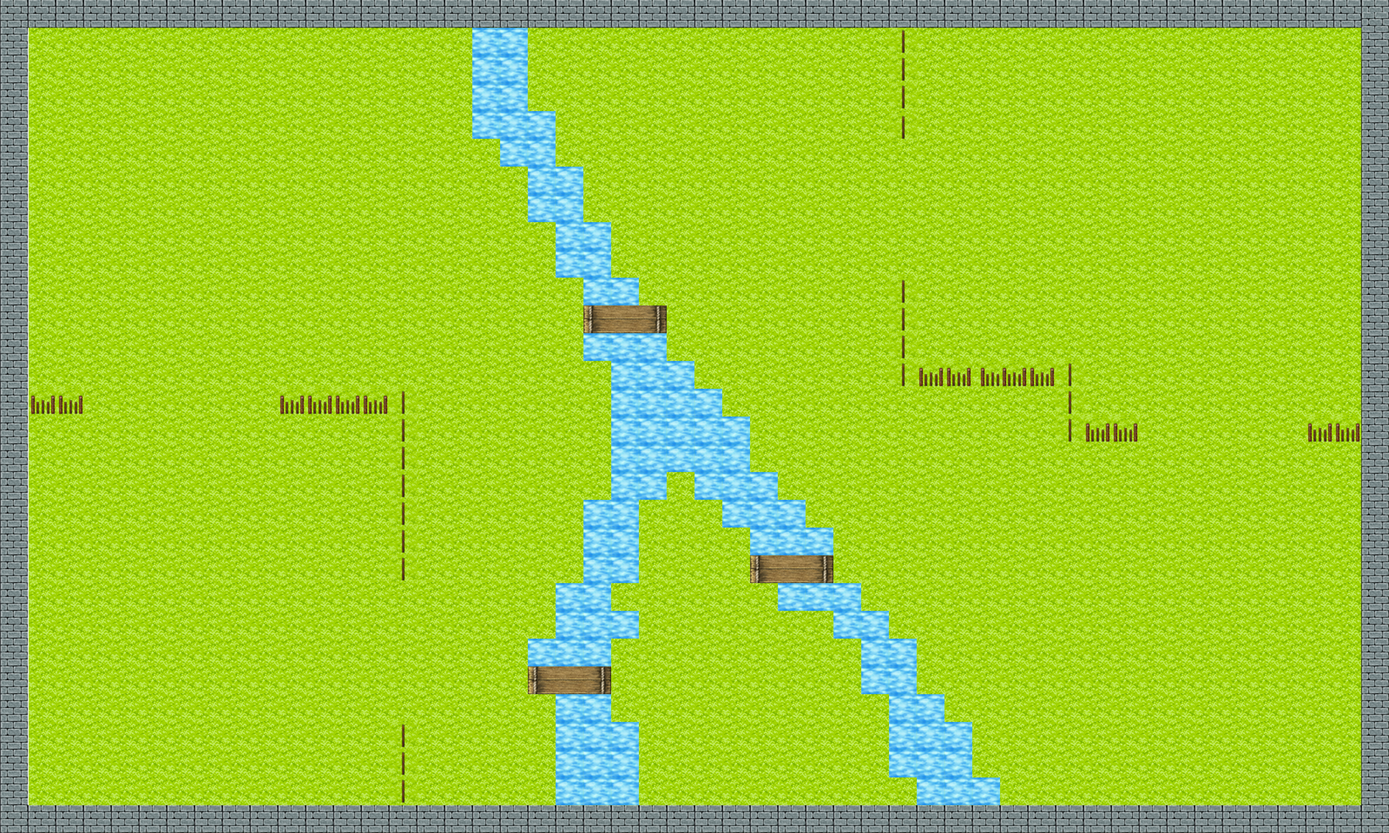
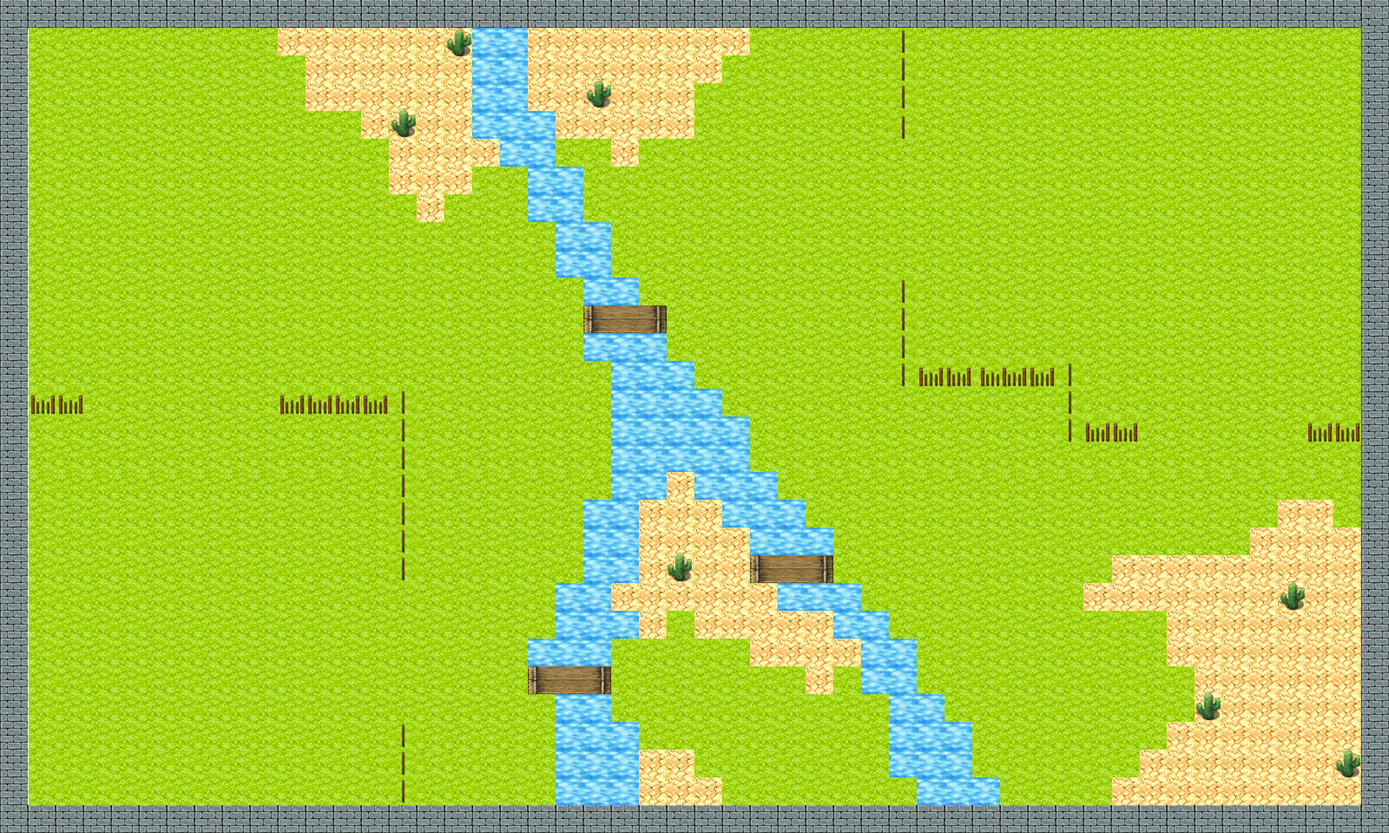
release v2.5 更新第二个地图、人物随机出现
1. 更新第二个地图并录入数据
2. 使人物随机出现

Changed region(s): [[0.0, 0.5625, 1.0, 0.9688], [0.1875, 0.0312, 0.375, 0.2812], [0.375, 0.0312, 0.5625, 0.2188]]

diff --git a/res/config.h b/res/config.h
@@ -90,41 +90,41 @@ const int originMap[2][31][51]=
     //0
     {0,0,0,0,0,0,0,0,0,0,0,0,0,0,0,0,0,0,0,0,0,0,0,0,0,0,0,0,0,0,0,0,0,0,0,0,0,0,0,0,0,0,0,0,0,0,0,0,0,0,0},
     //1-5
-    {0,0,0,0,0,0,0,0,0,0,0,0,0,0,0,0,0,0,0,0,0,0,0,0,0,0,0,0,0,0,0,0,0,0,0,0,0,0,0,0,0,0,0,0,0,0,0,0,0,0,0},
-    {0,0,1,1,1,1,1,1,1,1,1,1,1,1,1,1,1,1,1,1,1,1,1,1,1,1,1,1,1,1,1,1,1,0,1,1,1,1,1,1,1,1,1,1,1,1,1,1,1,1,0},
-    {0,0,1,1,1,1,1,1,1,1,1,1,1,1,1,1,1,1,1,1,1,1,1,1,1,1,1,1,1,1,1,1,1,0,1,1,1,1,1,1,1,1,1,1,1,1,1,1,1,1,0},
-    {0,0,1,1,1,1,1,1,1,1,1,1,1,1,1,1,1,1,1,1,1,1,1,1,1,1,1,1,1,1,1,1,1,0,1,1,1,1,1,1,1,1,1,1,1,1,1,1,1,1,0},
-    {0,0,1,1,1,1,1,1,1,1,1,1,1,1,1,1,1,1,1,1,1,1,1,1,1,1,1,1,1,1,1,1,1,0,1,1,1,1,1,1,1,1,1,1,1,1,1,1,1,1,0},
+    {0, 0,0,0,0,0,0,0,0,0,0, 0,0,0,0,0,0,0,0,0,0, 0,0,0,0,0,0,0,0,0,0, 0,0,0,0,0,0,0,0,0,0, 0,0,0,0,0,0,0,0,0,0},
+    {0, 0,1,1,1,1,1,1,1,1,1, 2,2,2,2,2,2,0,3,3,2, 2,2,2,2,2,2,2,1,1,1, 1,1,0,1,1,1,1,1,1,1, 1,1,1,1,1,1,1,1,1,0},
+    {0, 0,1,1,1,1,1,1,1,1,1, 1,2,2,2,2,2,2,3,3,2, 2,2,2,2,2,2,1,1,1,1, 1,1,0,1,1,1,1,1,1,1, 1,1,1,1,1,1,1,1,1,0},
+    {0, 0,1,1,1,1,1,1,1,1,1, 1,2,2,2,2,2,2,3,3,2, 2,0,2,2,2,1,1,1,1,1, 1,1,0,1,1,1,1,1,1,1, 1,1,1,1,1,1,1,1,1,0},
+    {0, 0,1,1,1,1,1,1,1,1,1, 1,1,1,2,0,2,2,3,3,3, 2,2,2,2,2,1,1,1,1,1, 1,1,0,1,1,1,1,1,1,1, 1,1,1,1,1,1,1,1,1,0},
     //6-10
-    {0,0,1,1,1,1,1,1,1,1,1,1,1,1,1,1,1,1,1,1,1,1,1,1,1,1,1,1,1,1,1,1,1,1,1,1,1,1,1,1,1,1,1,1,1,1,1,1,1,1,0},
-    {0,0,1,1,1,1,1,1,1,1,1,1,1,1,1,1,1,1,1,1,1,1,1,1,1,1,1,1,1,1,1,1,1,1,1,1,1,1,1,1,1,1,1,1,1,1,1,1,1,1,0},
-    {0,0,1,1,1,1,1,1,1,1,1,1,1,1,1,1,1,1,1,1,1,1,1,1,1,1,1,1,1,1,1,1,1,1,1,1,1,1,1,1,1,1,1,1,1,1,1,1,1,1,0},
-    {0,0,1,1,1,1,1,1,1,1,1,1,1,1,1,1,1,1,1,1,1,1,1,1,1,1,1,1,1,1,1,1,1,1,1,1,1,1,1,1,1,1,1,1,1,1,1,1,1,1,0},
-    {0,0,1,1,1,1,1,1,1,1,1,1,1,1,1,1,1,1,1,1,1,1,1,1,1,1,1,1,1,1,1,1,1,1,1,1,1,1,1,1,1,1,1,1,1,1,1,1,1,1,0},
+    {0, 0,1,1,1,1,1,1,1,1,1, 1,1,1,1,2,2,2,2,3,3, 1,1,2,1,1,1,1,1,1,1, 1,1,1,1,1,1,1,1,1,1, 1,1,1,1,1,1,1,1,1,0},
+    {0, 0,1,1,1,1,1,1,1,1,1, 1,1,1,1,2,2,2,1,1,3, 3,1,1,1,1,1,1,1,1,1, 1,1,1,1,1,1,1,1,1,1, 1,1,1,1,1,1,1,1,1,0},
+    {0, 0,1,1,1,1,1,1,1,1,1, 1,1,1,1,1,2,1,1,1,3, 3,1,1,1,1,1,1,1,1,1, 1,1,1,1,1,1,1,1,1,1, 1,1,1,1,1,1,1,1,1,0},
+    {0, 0,1,1,1,1,1,1,1,1,1, 1,1,1,1,1,1,1,1,1,1, 3,3,1,1,1,1,1,1,1,1, 1,1,1,1,1,1,1,1,1,1, 1,1,1,1,1,1,1,1,1,0},
+    {0, 0,1,1,1,1,1,1,1,1,1, 1,1,1,1,1,1,1,1,1,1, 3,3,1,1,1,1,1,1,1,1, 1,1,1,1,1,1,1,1,1,1, 1,1,1,1,1,1,1,1,1,0},
     //11-15
-    {0,0,1,1,1,1,1,1,1,1,1,1,1,1,1,1,1,1,1,1,1,1,1,1,1,1,1,1,1,1,1,1,1,0,1,1,1,1,1,1,1,1,1,1,1,1,1,1,1,1,0},
-    {0,0,1,1,1,1,1,1,1,1,1,1,1,1,1,1,1,1,1,1,1,1,1,1,1,1,1,1,1,1,1,1,1,0,1,1,1,1,1,1,1,1,1,1,1,1,1,1,1,1,0},
-    {0,0,1,1,1,1,1,1,1,1,1,1,1,1,1,1,1,1,1,1,1,1,1,1,1,1,1,1,1,1,1,1,1,0,1,1,1,1,1,1,1,1,1,1,1,1,1,1,1,1,0},
-    {0,0,1,1,1,1,1,1,1,1,1,1,1,1,1,1,1,1,1,1,1,1,1,1,1,1,1,1,1,1,1,1,1,0,0,0,0,0,0,0,1,1,1,1,1,1,1,1,1,1,0},
-    {0,0,0,0,1,1,1,1,1,1,1,0,0,0,0,0,1,1,1,1,1,1,1,1,1,1,1,1,1,1,1,1,1,1,1,1,1,1,1,0,1,1,1,1,1,1,1,1,1,1,0},
+    {0, 0,1,1,1,1,1,1,1,1,1, 1,1,1,1,1,1,1,1,1,1, 1,3,3,1,1,1,1,1,1,1, 1,1,0,1,1,1,1,1,1,1, 1,1,1,1,1,1,1,1,1,0},
+    {0, 0,1,1,1,1,1,1,1,1,1, 1,1,1,1,1,1,1,1,1,1, 1,1,1,1,1,1,1,1,1,1, 1,1,0,1,1,1,1,1,1,1, 1,1,1,1,1,1,1,1,1,0},
+    {0, 0,1,1,1,1,1,1,1,1,1, 1,1,1,1,1,1,1,1,1,1, 1,3,3,3,1,1,1,1,1,1, 1,1,0,1,1,1,1,1,1,1, 1,1,1,1,1,1,1,1,1,0},
+    {0, 0,1,1,1,1,1,1,1,1,1, 1,1,1,1,1,1,1,1,1,1, 1,1,3,3,3,1,1,1,1,1, 1,1,0,0,0,0,0,0,0,1, 1,1,1,1,1,1,1,1,1,0},
+    {0, 0,0,0,1,1,1,1,1,1,1, 0,0,0,0,0,1,1,1,1,1, 1,1,3,3,3,3,1,1,1,1, 1,1,1,1,1,1,1,1,0,1, 1,1,1,1,1,1,1,1,1,0},
     //16-20
-    {0,0,1,1,1,1,1,1,1,1,1,1,1,1,1,0,1,1,1,1,1,1,1,1,1,1,1,1,1,1,1,1,1,1,1,1,1,1,1,0,0,0,1,1,1,1,1,1,0,0,0},
-    {0,0,1,1,1,1,1,1,1,1,1,1,1,1,1,0,1,1,1,1,1,1,1,1,1,1,1,1,1,1,1,1,1,1,1,1,1,1,1,1,1,1,1,1,1,1,1,1,1,1,0},
-    {0,0,1,1,1,1,1,1,1,1,1,1,1,1,1,0,1,1,1,1,1,1,1,1,1,1,1,1,1,1,1,1,1,1,1,1,1,1,1,1,1,1,1,1,1,1,1,1,1,1,0},
-    {0,0,1,1,1,1,1,1,1,1,1,1,1,1,1,0,1,1,1,1,1,1,1,1,1,1,1,1,1,1,1,1,1,1,1,1,1,1,1,1,1,1,1,1,1,1,1,1,1,1,0},
-    {0,0,1,1,1,1,1,1,1,1,1,1,1,1,1,0,1,1,1,1,1,1,1,1,1,1,1,1,1,1,1,1,1,1,1,1,1,1,1,1,1,1,1,1,1,1,1,1,1,1,0},
+    {0, 0,1,1,1,1,1,1,1,1,1, 1,1,1,1,0,1,1,1,1,1, 1,1,3,3,3,3,3,1,1,1, 1,1,1,1,1,1,1,1,0,0, 0,1,1,1,1,1,1,0,0,0},
+    {0, 0,1,1,1,1,1,1,1,1,1, 1,1,1,1,0,1,1,1,1,1, 1,1,3,3,3,3,3,1,1,1, 1,1,1,1,1,1,1,1,1,1, 1,1,1,1,1,1,1,1,1,0},
+    {0, 0,1,1,1,1,1,1,1,1,1, 1,1,1,1,0,1,1,1,1,1, 1,1,3,3,2,3,3,3,1,1, 1,1,1,1,1,1,1,1,1,1, 1,1,1,1,1,1,1,1,1,0},
+    {0, 0,1,1,1,1,1,1,1,1,1, 1,1,1,1,0,1,1,1,1,1, 1,3,3,2,2,2,3,3,3,1, 1,1,1,1,1,1,1,1,1,1, 1,1,1,1,1,1,2,2,1,0},
+    {0, 0,1,1,1,1,1,1,1,1,1, 1,1,1,1,0,1,1,1,1,1, 1,3,3,2,2,2,2,3,3,3, 1,1,1,1,1,1,1,1,1,1, 1,1,1,1,1,2,2,2,2,0},
     //21-25
-    {0,0,1,1,1,1,1,1,1,1,1,1,1,1,1,0,1,1,1,1,1,1,1,1,1,1,1,1,1,1,1,1,1,1,1,1,1,1,1,1,1,1,1,1,1,1,1,1,1,1,0},
-    {0,0,1,1,1,1,1,1,1,1,1,1,1,1,1,1,1,1,1,1,1,1,1,1,1,1,1,1,1,1,1,1,1,1,1,1,1,1,1,1,1,1,1,1,1,1,1,1,1,1,0},
-    {0,0,1,1,1,1,1,1,1,1,1,1,1,1,1,1,1,1,1,1,1,1,1,1,1,1,1,1,1,1,1,1,1,1,1,1,1,1,1,1,1,1,1,1,1,1,1,1,1,1,0},
-    {0,0,1,1,1,1,1,1,1,1,1,1,1,1,1,1,1,1,1,1,1,1,1,1,1,1,1,1,1,1,1,1,1,1,1,1,1,1,1,1,1,1,1,1,1,1,1,1,1,1,0},
-    {0,0,1,1,1,1,1,1,1,1,1,1,1,1,1,1,1,1,1,1,1,1,1,1,1,1,1,1,1,1,1,1,1,1,1,1,1,1,1,1,1,1,1,1,1,1,1,1,1,1,0},
+    {0, 0,1,1,1,1,1,1,1,1,1, 1,1,1,1,0,1,1,1,1,1, 1,3,3,2,0,2,2,1,1,1, 1,1,1,1,1,1,1,1,1,1, 2,2,2,2,2,2,2,2,2,0},
+    {0, 0,1,1,1,1,1,1,1,1,1, 1,1,1,1,1,1,1,1,1,1, 3,3,2,2,2,2,2,2,3,3, 3,1,1,1,1,1,1,1,1,2, 2,2,2,2,2,2,0,2,2,0},
+    {0, 0,1,1,1,1,1,1,1,1,1, 1,1,1,1,1,1,1,1,1,1, 3,3,3,2,1,2,2,2,2,2, 3,3,1,1,1,1,1,1,1,1, 1,1,2,2,2,2,2,2,2,0},
+    {0, 0,1,1,1,1,1,1,1,1,1, 1,1,1,1,1,1,1,1,1,3, 3,3,1,1,1,1,1,2,2,2, 2,3,3,1,1,1,1,1,1,1, 1,1,2,2,2,2,2,2,2,0},
+    {0, 0,1,1,1,1,1,1,1,1,1, 1,1,1,1,1,1,1,1,1,1, 1,1,1,1,1,1,1,1,1,2, 1,3,3,1,1,1,1,1,1,1, 1,1,1,2,2,2,2,2,2,0},
     //26-30
-    {0,0,1,1,1,1,1,1,1,1,1,1,1,1,1,1,1,1,1,1,1,1,1,1,1,1,1,1,1,1,1,1,1,1,1,1,1,1,1,1,1,1,1,1,1,1,1,1,1,1,0},
-    {0,0,1,1,1,1,1,1,1,1,1,1,1,1,1,0,1,1,1,1,1,1,1,1,1,1,1,1,1,1,1,1,1,1,1,1,1,1,1,1,1,1,1,1,1,1,1,1,1,1,0},
-    {0,0,1,1,1,1,1,1,1,1,1,1,1,1,1,0,1,1,1,1,1,1,1,1,1,1,1,1,1,1,1,1,1,1,1,1,1,1,1,1,1,1,1,1,1,1,1,1,1,1,0},
-    {0,0,1,1,1,1,1,1,1,1,1,1,1,1,1,0,1,1,1,1,1,1,1,1,1,1,1,1,1,1,1,1,1,1,1,1,1,1,1,1,1,1,1,1,1,1,1,1,1,1,0},
-    {0,0,0,0,0,0,0,0,0,0,0,0,0,0,0,0,0,0,0,0,0,0,0,0,0,0,0,0,0,0,0,0,0,0,0,0,0,0,0,0,0,0,0,0,0,0,0,0,0,0,0}
+    {0, 0,1,1,1,1,1,1,1,1,1, 1,1,1,1,1,1,1,1,1,1, 3,3,1,1,1,1,1,1,1,1, 1,1,3,3,1,1,1,1,1,1, 1,1,1,0,2,2,2,2,2,0},
+    {0, 0,1,1,1,1,1,1,1,1,1, 1,1,1,1,0,1,1,1,1,1, 3,3,3,1,1,1,1,1,1,1, 1,1,3,3,3,1,1,1,1,1, 1,1,2,2,2,2,2,2,2,0},
+    {0, 0,1,1,1,1,1,1,1,1,1, 1,1,1,1,0,1,1,1,1,1, 3,3,3,2,2,1,1,1,1,1, 1,1,3,3,3,1,1,1,1,1, 1,2,2,2,2,2,2,2,0,0},
+    {0, 0,1,1,1,1,1,1,1,1,1, 1,1,1,1,0,1,1,1,1,1, 3,3,3,2,2,2,1,1,1,1, 1,1,1,3,3,3,1,1,1,1, 2,2,2,2,2,2,2,2,2,0},
+    {0, 0,0,0,0,0,0,0,0,0,0, 0,0,0,0,0,0,0,0,0,0, 0,0,0,0,0,0,0,0,0,0, 0,0,0,0,0,0,0,0,0,0, 0,0,0,0,0,0,0,0,0,0}
     }
 };
 const int originx[2] = {20,30}, originy[2] = {30,50};
@@ -149,10 +149,5 @@ inline int ManhattanDist(int x1, int y1, int x2, int y2)
 enum BELONGING{MINE, YOURS};
 enum DERECTION{UP, DOWN, LEFT, RIGHT};
 enum GAMEMODE{ONEPLAYER = 1, TWOPLAYERS = 0};
-
-#define endtag (qDebug()<<"end")
-#define begintag (qDebug()<<"begin")
-
-
 
 #endif // CONFIG_H

diff --git a/res/gamescene.cpp b/res/gamescene.cpp
@@ -26,6 +26,7 @@ GameScene::GameScene(int chapter, int gameMode, QWidget *parent)
     connect(playingMenu, &PlayingMenu::restartGame, [=](){bgm->stop();emit restart();});
 
     setButton();
+
     hint = new HintLabel(this);
     hint->hide();
 
@@ -37,13 +38,7 @@ GameScene::GameScene(int chapter, int gameMode, QWidget *parent)
     attrackSound = new QSound(":/music/attrack.wav", this);
     clickSound = new QSound(":/music/click.wav", this);
 
-    characterNum = 6;
-    character[0] = new Warrior(10, 10, m_x, m_y,YOURS, this);
-    character[1] = new Swordsman(3, 5, m_x, m_y,YOURS, this);
-    character[2] = new Ninja(15, 14, m_x, m_y,YOURS, this);
-    character[3] = new Warrior(13, 13, m_x, m_y, MINE, this);
-    character[4] = new Swordsman(10, 19, m_x, m_y, MINE, this);
-    character[5] = new Ninja(19, 15, m_x, m_y, MINE, this);
+    createCharacter();
 
     aliveNum[MINE] = aliveNum[YOURS] = 0;
     for(int i=0;i<characterNum;i++)
@@ -138,6 +133,37 @@ GameScene::GameScene(int chapter, int gameMode, QWidget *parent)
     });
     connect(resultMenu, &ResultMenu::startVideo, this, &GameScene::showVideo);
 }
+void GameScene::createCharacter()
+{
+    characterNum = 8;
+    int tempx[8], tempy[8];
+    for(int i = 0; i < 8; i++)
+    {
+        while(true)
+        {
+            bool success = true;
+            tempx[i] = rand() % m_map.maxCellx + 1;
+            tempy[i] = rand() % m_map.maxCelly + 1;
+            if(GameMap::binMap[tempx[i]][tempy[i]] == 0)
+                success = false;
+            for(int j = 0; j < i; j++)
+            {
+                if(tempx[j]==tempx[i]&&tempy[j]==tempy[i])
+                    success = false;
+            }
+            if(success)break;
+        }
+    }
+    character[0] = new Warrior(tempx[0], tempy[0], m_x, m_y,YOURS, this);
+    character[1] = new Warrior(tempx[1], tempy[1], m_x, m_y,YOURS, this);
+    character[2] = new Swordsman(tempx[2], tempy[2], m_x, m_y,YOURS, this);
+    character[3] = new Ninja(tempx[3], tempy[3], m_x, m_y,YOURS, this);
+
+    character[4] = new Warrior(tempx[4], tempy[4], m_x, m_y, MINE, this);
+    character[5] = new Warrior(tempx[5], tempy[5], m_x, m_y, MINE, this);
+    character[6] = new Swordsman(tempx[6], tempy[6], m_x, m_y, MINE, this);
+    character[7] = new Ninja(tempx[7], tempy[7], m_x, m_y, MINE, this);
+}
 void GameScene::showVideo()
 {
     saveImage();
@@ -173,8 +199,6 @@ void GameScene::saveImage()
     image = image.scaled(600, 400, Qt::KeepAspectRatio, Qt::SmoothTransformation);
     imageSaver.push_back(image);
 }
-
-
 bool GameScene::eventFilter(QObject * watched, QEvent *event)
 {
     if (watched->metaObject()->className() == QStringLiteral("Character"))
@@ -196,24 +220,29 @@ GameScene::~GameScene()
 }
 void GameScene::setButton()
 {
-    cancelButton = new ClickLabel(60,48,QPixmap(":/pic/cancel_button.png"),this);
-    cancelButton->setGeometry(1150,830,60,48);
+    int GAME_BUTTON_WIDTH = 96;
+    int GAME_BUTTON_HEIGHT = 64;
+    cancelButton = new ClickLabel(GAME_BUTTON_WIDTH,GAME_BUTTON_HEIGHT,QPixmap(":/pic/cancel_button.png").scaled(GAME_BUTTON_WIDTH,GAME_BUTTON_HEIGHT, Qt::KeepAspectRatio, Qt::SmoothTransformation),this);
+    cancelButton->setGeometry(1060,830,GAME_BUTTON_WIDTH,GAME_BUTTON_HEIGHT);
     cancelButton->setStyleSheet("border:none;");
     cancelButton->hide();
 
-    skipButton = new ClickLabel(60,48,QPixmap(":/pic/skip_button.png"),this);
-    skipButton->setGeometry(1250,830,60,48);
+    skipButton = new ClickLabel(GAME_BUTTON_WIDTH,GAME_BUTTON_HEIGHT,QPixmap(":/pic/skip_button.png").scaled(GAME_BUTTON_WIDTH,GAME_BUTTON_HEIGHT, Qt::KeepAspectRatio, Qt::SmoothTransformation),this);
+    skipButton->setGeometry(1190,830,GAME_BUTTON_WIDTH,GAME_BUTTON_HEIGHT);
     skipButton->setStyleSheet("border:none;");
+    skipButton->raise();
 
-    musicButton = new ClickLabel(60,48,QPixmap(":/pic/music_button_on.png"),this);
-    musicButton->setGeometry(1350,830,60,48);
+    musicButton = new ClickLabel(GAME_BUTTON_WIDTH,GAME_BUTTON_HEIGHT,QPixmap(":/pic/music_button_on.png").scaled(GAME_BUTTON_WIDTH,GAME_BUTTON_HEIGHT, Qt::KeepAspectRatio, Qt::SmoothTransformation),this);
+    musicButton->setGeometry(1320,830,GAME_BUTTON_WIDTH,GAME_BUTTON_HEIGHT);
     musicButton->setStyleSheet("border:none;");
+    musicButton->raise();
     //bgm->play();
 
 
-    menuButton = new ClickLabel(60,48,QPixmap(":/pic/menu_button.png"),this);
-    menuButton->setGeometry(1450,830,60,48);
+    menuButton = new ClickLabel(GAME_BUTTON_WIDTH,GAME_BUTTON_HEIGHT,QPixmap(":/pic/menu_button.png").scaled(GAME_BUTTON_WIDTH,GAME_BUTTON_HEIGHT, Qt::KeepAspectRatio, Qt::SmoothTransformation),this);
+    menuButton->setGeometry(1450,830,GAME_BUTTON_WIDTH,GAME_BUTTON_HEIGHT);
     menuButton->setStyleSheet("border:none;");
+    menuButton->raise();
 
     connect(cancelButton, &ClickLabel::clicked, this, [=](){
        zoom(cancelButton);
@@ -230,28 +259,25 @@ void GameScene::setButton()
     connect(skipButton, &ClickLabel::clicked, this, [=](){
         zoom(skipButton);
         clickSound->play();
-        //attrackSound->play();
         cancelButton->hide();
         if(nowCharacter)nowCharacter->selectionDlg->hide();
         nextRound(roundBelonged);
     });
     connect(musicButton, &ClickLabel::clicked, this, [=](){
-
-
-        //emit myLoss();
         zoom(musicButton);
         clickSound->play();
         if(bgm->isFinished()==true)
         {
-            musicButton->setPixmap(QPixmap(":/pic/music_button_on.png"));
+            musicButton->setPixmap(QPixmap(":/pic/music_button_on.png").scaled(GAME_BUTTON_WIDTH,GAME_BUTTON_HEIGHT, Qt::KeepAspectRatio, Qt::SmoothTransformation));
+            musicButton->repaint();
             bgm->play();
         }
         else
         {
-            musicButton->setPixmap(QPixmap(":/pic/music_button_off.png"));
+            musicButton->setPixmap(QPixmap(":/pic/music_button_off.png").scaled(GAME_BUTTON_WIDTH,GAME_BUTTON_HEIGHT, Qt::KeepAspectRatio, Qt::SmoothTransformation));
+            musicButton->repaint();
             bgm->stop();
         }
-        //TODO:
     });
     connect(menuButton, &ClickLabel::clicked, this, [=](){
         zoom(menuButton);
@@ -491,6 +517,7 @@ void GameScene::paintEvent(QPaintEvent *)
 }
 void GameScene::mousePressEvent(QMouseEvent* event)
 {
+
     if(event->button() == Qt::RightButton)
     {
         if(cancelButton->isHidden()==false)
@@ -498,7 +525,6 @@ void GameScene::mousePressEvent(QMouseEvent* event)
         return;
     }
     updateMousePosition(event);
-
     if(AIOpenOrNot==true&&gameState==AI)return;
 
     if(gameState==BEGIN)

diff --git a/res/gamelabel.cpp b/res/gamelabel.cpp
@@ -16,11 +16,11 @@ HintLabel::HintLabel(QString t_str,QWidget * parent, int x, int y):
     setFixedSize(550, 150);
     update();
     show();
+    raise();
 }
 void HintLabel::setText(QString t_str)
 {
     str = t_str;
-
     setFixedSize(550, 150);
 }
 void HintLabel::paintEvent(QPaintEvent * ev)
@@ -68,6 +68,9 @@ void ClickLabel::paintEvent(QPaintEvent *eve)
             painter.setOpacity(0.6);
     }
     painter.drawPixmap(0, 0, pic);
-
+}
+void ClickLabel::setPixmap(QPixmap t_pic)
+{
+    pic = t_pic;
 }
 

diff --git a/res/mainscene.cpp b/res/mainscene.cpp
@@ -11,7 +11,6 @@ MainScene::MainScene(QWidget* parent):
 
     background.load(":/pic/background.png");
 
-
     QPixmap m_pixmap0 = QPixmap(":/pic/guide_button.png");
     QPixmap m_pixmap1 = QPixmap(":/pic/one_player_button.png");
     QPixmap m_pixmap2 = QPixmap(":/pic/two_players_button.png");
@@ -63,7 +62,6 @@ MainScene::MainScene(QWidget* parent):
                 QCoreApplication::processEvents(QEventLoop::AllEvents, 100);
        this->hide();
     });
-
 }
 void MainScene::paintEvent(QPaintEvent *)
 {

diff --git a/res/gamemap.cpp b/res/gamemap.cpp
@@ -11,6 +11,8 @@ GameMap::GameMap(int id)
 
     height = CELL_SIZE * originx[id - 1];
     width = CELL_SIZE * originy[id - 1];
+    maxCellx = originy[id - 1];
+    maxCelly = originx[id - 1];
     for(int i = 0; i <= originx[id - 1]; i++)//30
     {
         for(int j = 0; j <= originy[id - 1]; j++)//50

diff --git a/res/gamelabel.h b/res/gamelabel.h
@@ -29,6 +29,7 @@ public:
     void enterEvent(QEvent*)override;
     void leaveEvent(QEvent*)override;
     void paintEvent(QPaintEvent*)override;
+    void setPixmap(QPixmap t_pic);
 signals:
     void clicked();
 };

diff --git a/res/gamescene.h b/res/gamescene.h
@@ -32,6 +32,7 @@ public:
     void AIMoveCharacter(int id);
     void saveImage();
     void showVideo();
+    void createCharacter();
 protected:
     GameMap m_map;
     int m_x, m_y;

diff --git a/res/gamemap.h b/res/gamemap.h
@@ -10,6 +10,7 @@ public:
 public:
     QPixmap m_pic;
     int height, width;
+    int maxCellx, maxCelly;
     static int binMap[51][31];
 };
 
